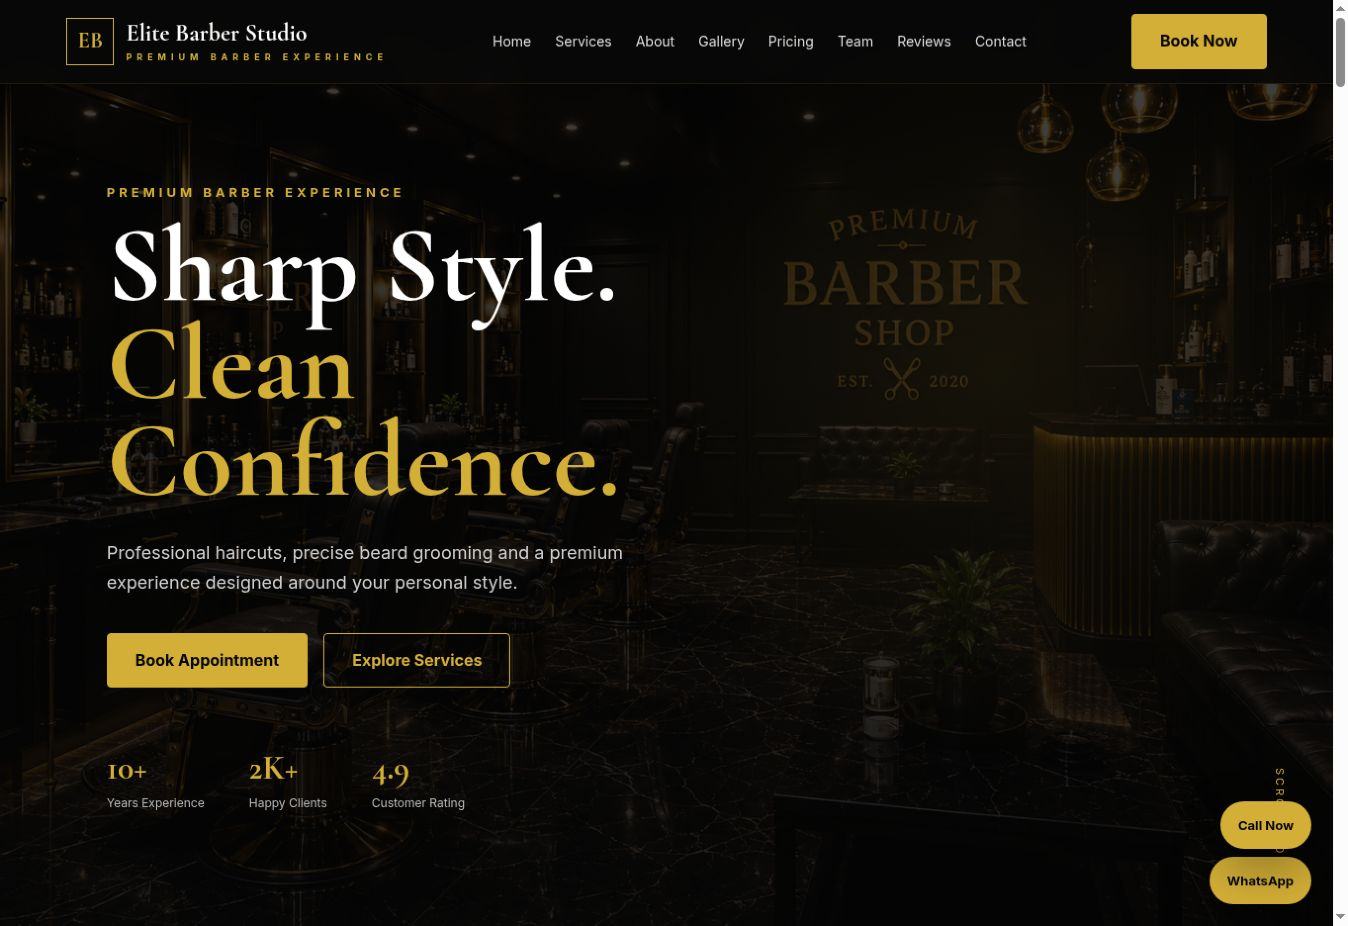
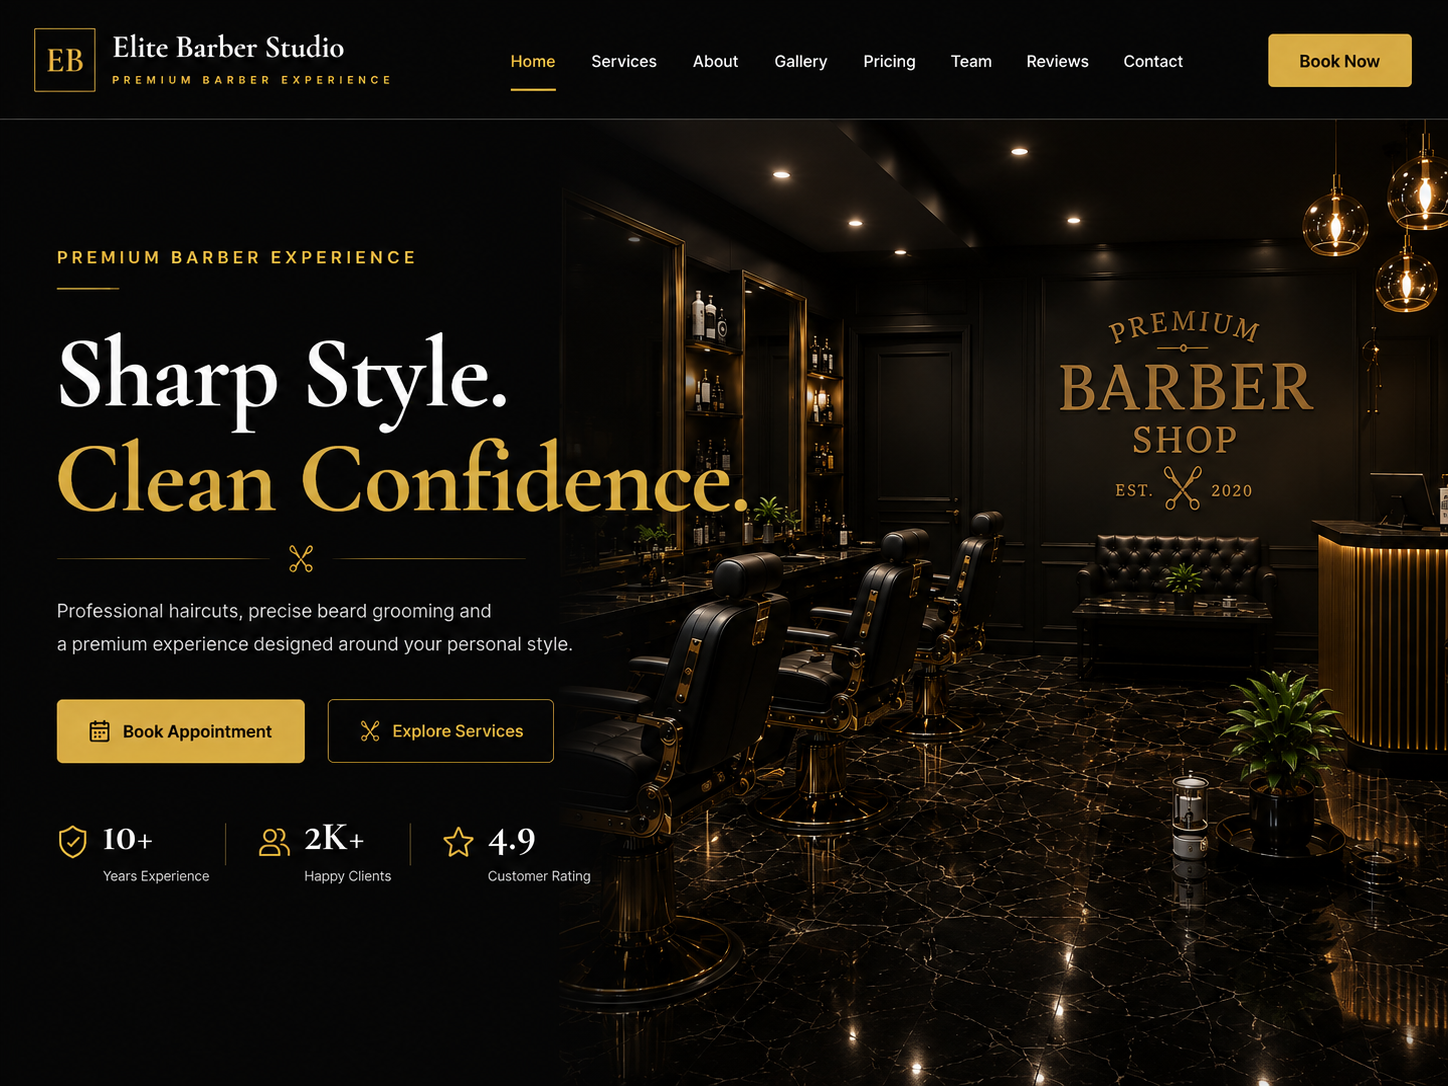
Update portfolio project images

diff --git a/index.html b/index.html
@@ -389,7 +389,7 @@
 
             </article>
             
-                        <article class="project-card">
+            <article class="project-card">
 
                 <div class="project-preview">
 
@@ -456,6 +456,84 @@
 
                         <a
                             href="https://github.com/hamzawebdesign/Elite-Barber-Studio-TEMPLATE"
+                            target="_blank"
+                            rel="noopener noreferrer"
+                            class="btn btn-secondary"
+                        >
+                            GitHub Repository
+                        </a>
+
+                    </div>
+
+                </div>
+
+            </article>
+
+            <article class="project-card">
+
+                <div class="project-preview">
+
+                    <div class="project-browser">
+
+                        <div class="project-browser-top">
+                            <span></span>
+                            <span></span>
+                            <span></span>
+                        </div>
+
+                        <div class="project-screen">
+
+                            <img
+                                src="images/restaurant-project.jpg"
+                                alt="Maison Rabat restaurant website preview"
+                                class="project-screenshot"
+                            >
+
+                        </div>
+
+                    </div>
+
+                </div>
+
+                <div class="project-information">
+
+                    <p class="project-type">
+                        Restaurant Website
+                    </p>
+
+                    <h3>
+                        Maison Rabat Restaurant
+                    </h3>
+
+                    <p class="project-description">
+                        A premium and responsive Moroccan restaurant website
+                        created to showcase the menu, gallery, opening hours
+                        and make table reservations easy through WhatsApp.
+                    </p>
+
+                    <div class="project-tags">
+
+                        <span>HTML</span>
+                        <span>CSS</span>
+                        <span>JavaScript</span>
+                        <span>Responsive</span>
+                        <span>Reservation</span>
+
+                    </div>
+
+                    <div class="project-buttons">
+
+                        <a
+                            href="https://hamzawebdesign.github.io/Maison-Rabat-Restaurant-TEMPLATE/"
+                            target="_blank"
+                            rel="noopener noreferrer"
+                            class="btn btn-primary"
+                        >
+                            Live Demo
+                        </a>
+
+                        <a
+                            href="https://github.com/hamzawebdesign/Maison-Rabat-Restaurant-TEMPLATE"
                             target="_blank"
                             rel="noopener noreferrer"
                             class="btn btn-secondary"
